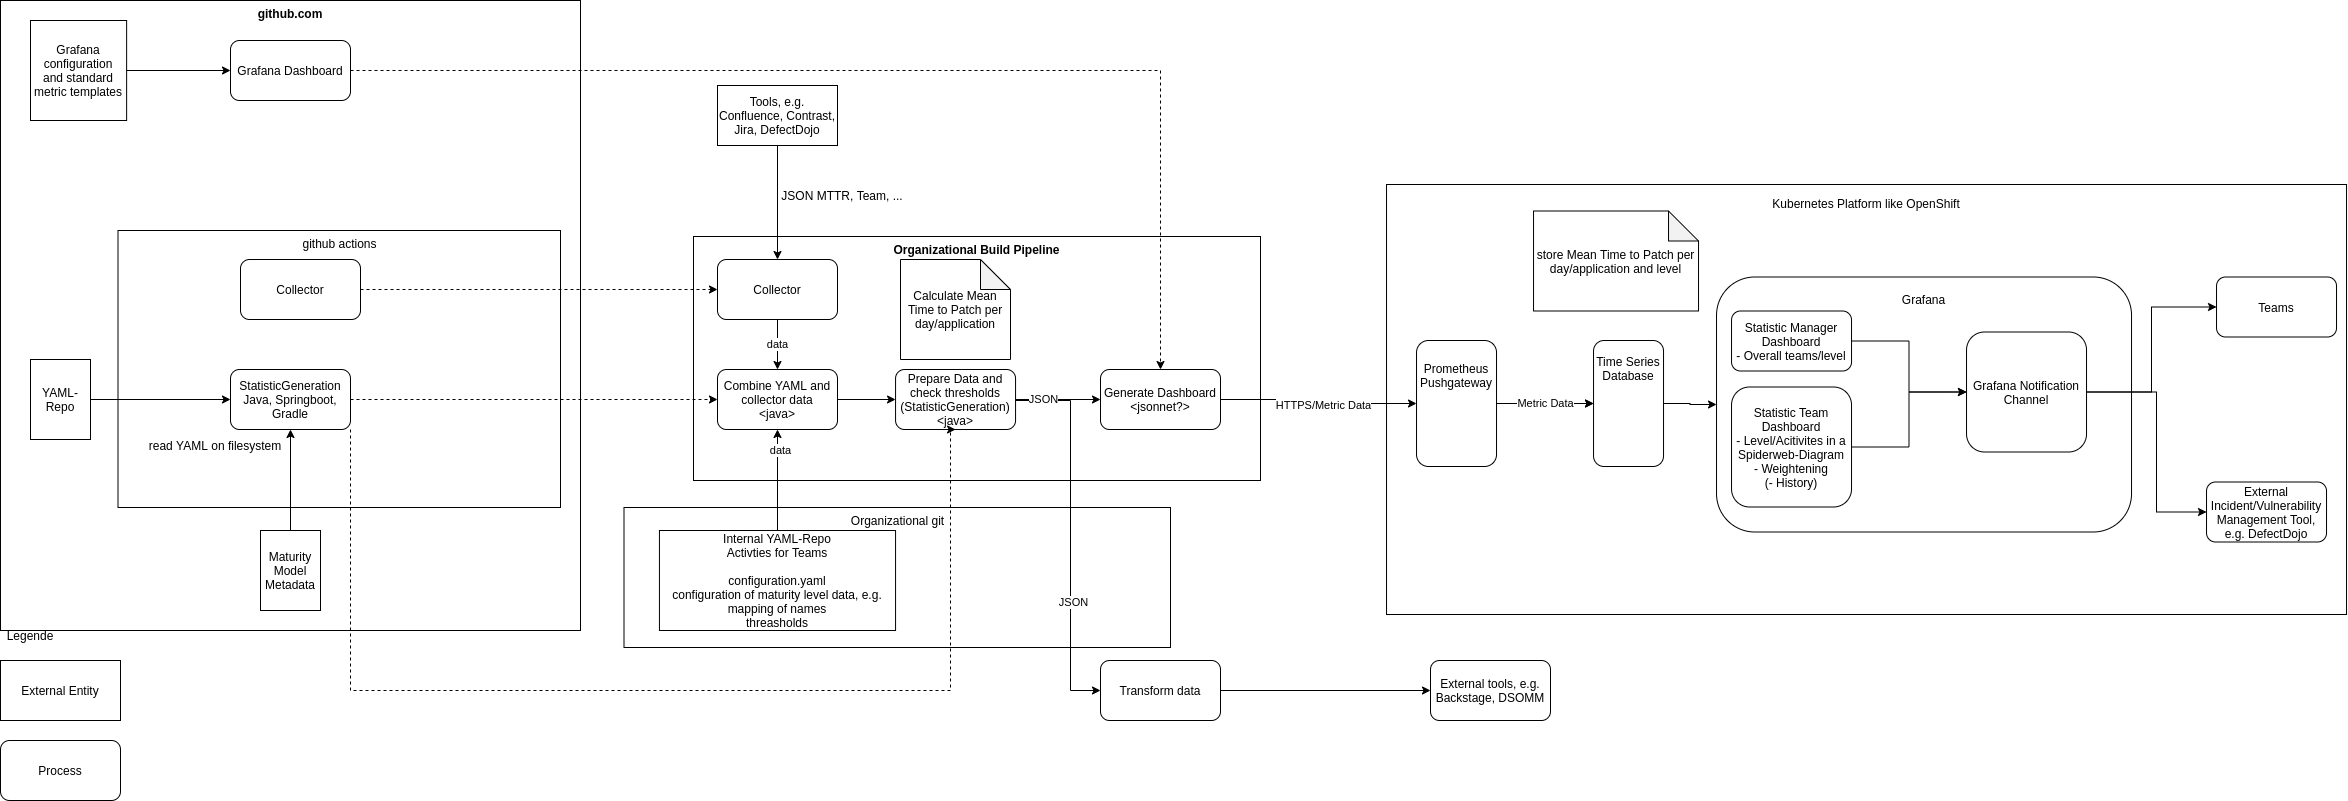
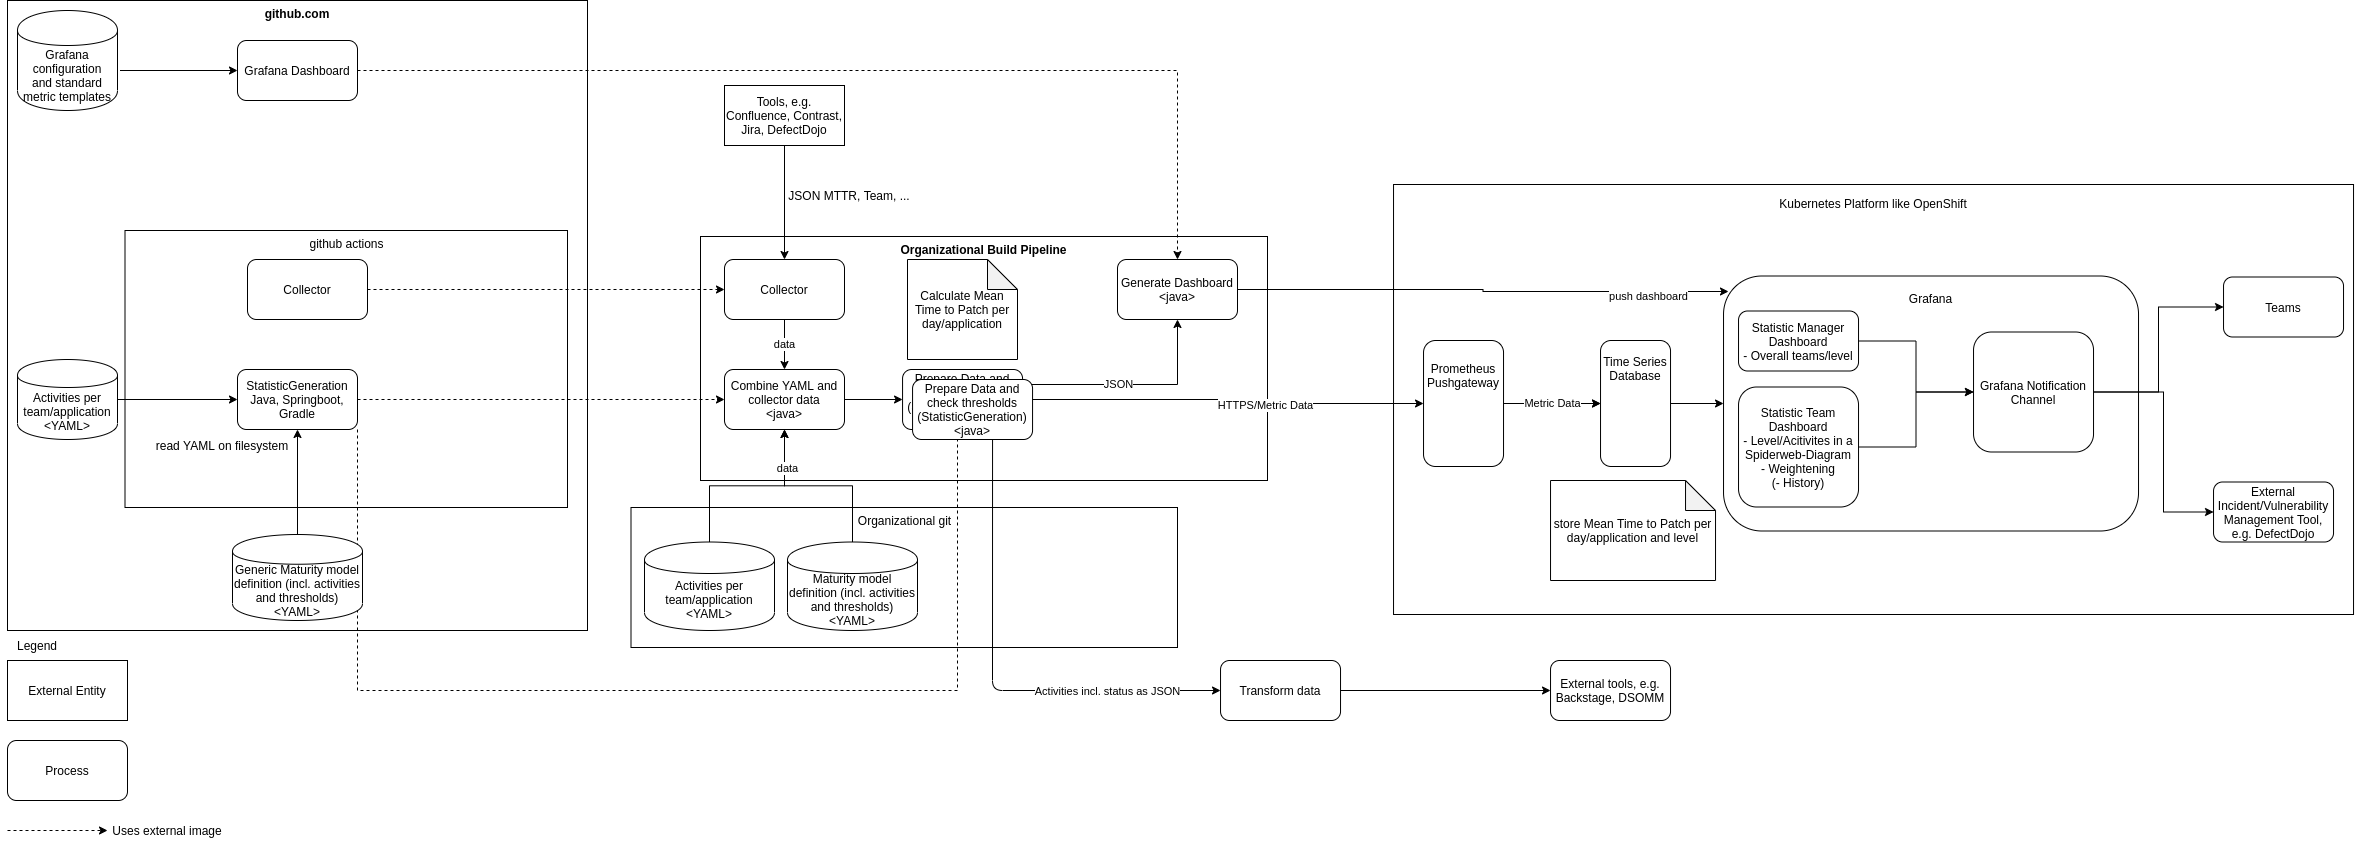
chore: add overview

diff --git a/Readme.md b/Readme.md
@@ -12,8 +12,10 @@ MetricCA is an open-source tool designed to collect, process, and showcase metri
 - **Secure Workflow**: Integrated with secure review and approval workflows to ensure data integrity and security.
 
 ## Architecture
-
-![Architecture Overview](docs/architecture.png)
+### Overview
+![Overview](docs/overview.png)
+### Details
+![Architecture](docs/architecture.png)
 
 # Process Flow
 
